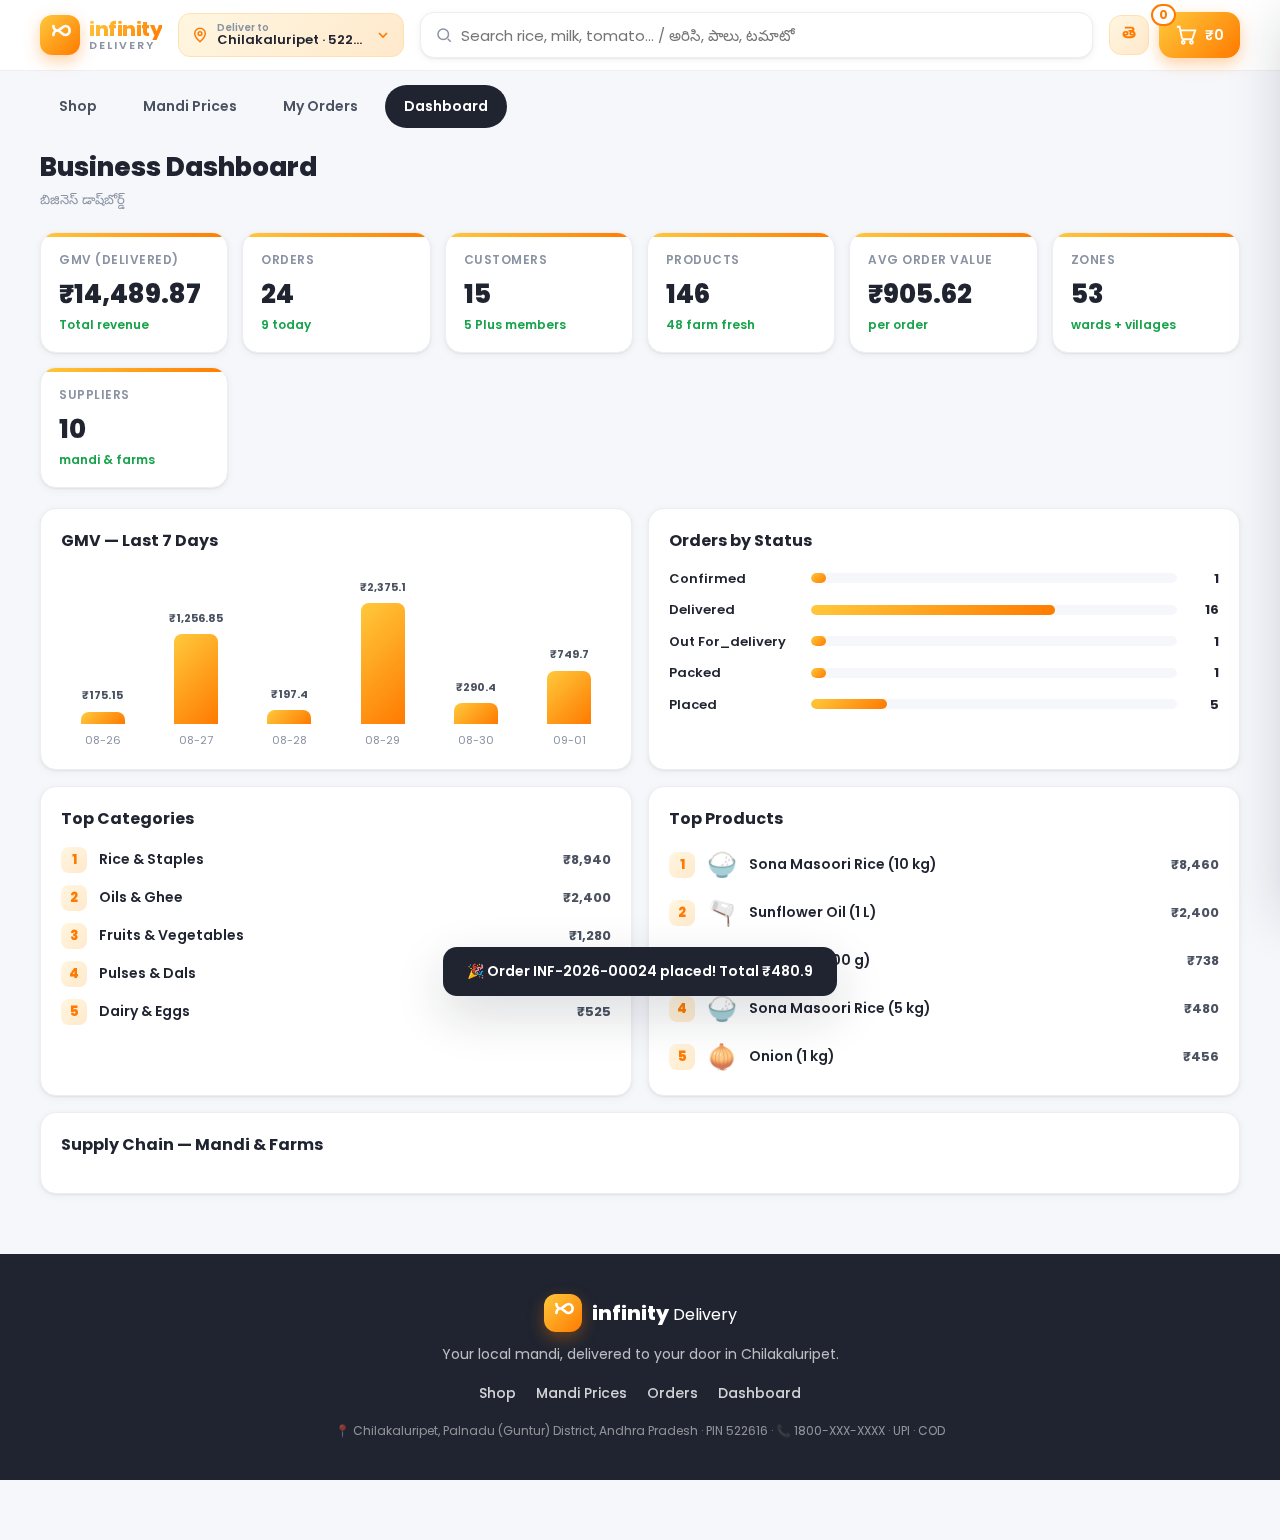
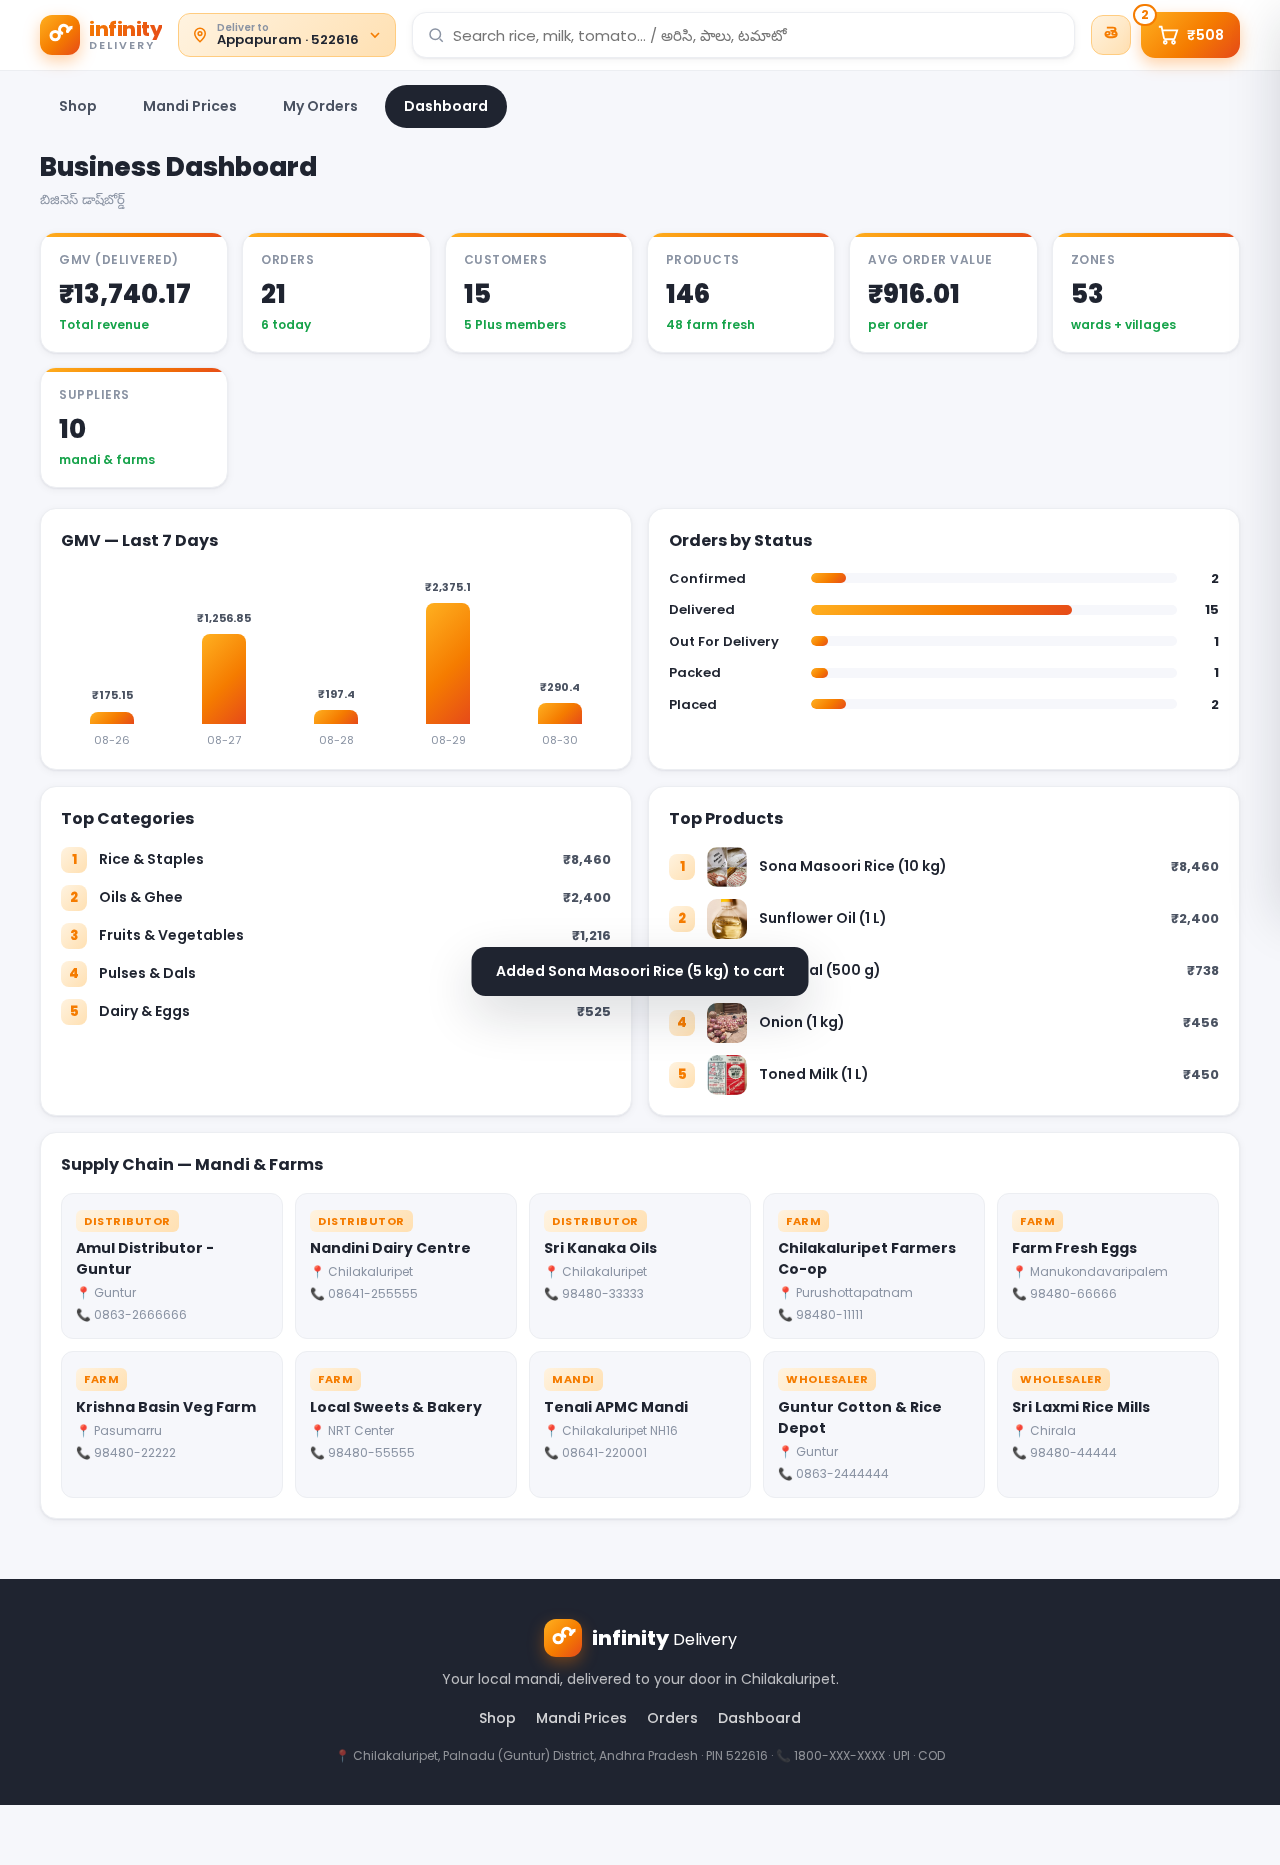
Update screenshots with real product images; render photos in frontend; update DB image paths

diff --git a/frontend/js/app.js b/frontend/js/app.js
@@ -10,6 +10,13 @@ const $  = (s, r = document) => r.querySelector(s);
 const $$ = (s, r = document) => [...r.querySelectorAll(s)];
 const inr = (n) => "₹" + (Math.round(n * 100) / 100).toLocaleString("en-IN");
 
+/* Render a product image: real photo if present, else the emoji fallback. */
+const img = (v, cls = "") =>
+  v && v.startsWith("/")
+    ? `<img class="p-photo ${cls}" src="${v}" alt="" loading="lazy"
+        onerror="this.onerror=null;this.outerHTML='<span class=&quot;ph-emoji ${cls}&quot;>🛒</span>'">`
+    : `<span class="ph-emoji ${cls}">${v || ""}</span>`;
+
 /* ---------------- STATE ---------------- */
 const state = {
   categories: [],
@@ -132,7 +139,7 @@ function productCard(p) {
       : `<button type="button" class="add-btn" data-add="${p.id}" aria-label="Add to cart">+</button>`;
   return `
   <div class="p-card" data-pid="${p.id}">
-    <div class="p-img">${p.image}
+    <div class="p-img">${img(p.image)}
       ${p.is_fresh ? '<span class="p-badge">FRESH</span>' : p.is_best_seller ? '<span class="p-badge best">BEST</span>' : ""}
       ${off ? `<span class="p-off">${off}% OFF</span>` : ""}
     </div>
@@ -210,7 +217,7 @@ function renderCart() {
     if (!p) return "";
     return `
     <div class="cart-item">
-      <div class="ci-em">${p.image}</div>
+      <div class="ci-em">${img(p.image, "ci")}</div>
       <div class="ci-info">
         <div class="ci-name">${p.name}</div>
         <div class="ci-price">${inr(p.price)} · ${p.unit}</div>
@@ -252,7 +259,7 @@ async function openProduct(pid) {
     const stars = (n) => "★".repeat(Math.round(n)) + "☆".repeat(5 - Math.round(n));
     const outOfStock = p.stock <= 0;
     $("#prodBody").innerHTML = `
-      <div class="pd-hero">${p.image}</div>
+      <div class="pd-hero">${img(p.image, "hero")}</div>
       <div class="pd-body">
         <div class="pd-name">${p.name}</div>
         <div class="pd-name-te">${p.name_te || ""}</div>
@@ -374,7 +381,7 @@ async function loadOrders() {
         const det = await api("/orders/" + o.id);
         const box = $(`.order-items[data-oid="${o.id}"]`);
         if (box) box.innerHTML = det.items.map(i =>
-          `<div class="oi"><span class="em">${i.image}</span><span class="nm">${i.name}</span><span class="qt">× ${i.qty}</span><span class="lt">${inr(i.line_total)}</span></div>`).join("");
+          `<div class="oi">${img(i.image, "oi")}<span class="nm">${i.name}</span><span class="qt">× ${i.qty}</span><span class="lt">${inr(i.line_total)}</span></div>`).join("");
       } catch (_) {}
     }));
 
@@ -438,7 +445,7 @@ async function loadAdmin() {
     // top products
     $("#topProds").innerHTML = s.top_products.length
       ? s.top_products.map((p, i) => `
-        <div class="rank-row"><span class="rk">${i + 1}</span><span class="em">${p.image}</span><span class="rn">${p.name}</span><span class="rv">${inr(p.revenue)}</span></div>`).join("")
+        <div class="rank-row"><span class="rk">${i + 1}</span>${img(p.image, "rk")}<span class="rn">${p.name}</span><span class="rv">${inr(p.revenue)}</span></div>`).join("")
       : '<p style="color:var(--muted)">No sales data yet</p>';
 
     // suppliers
